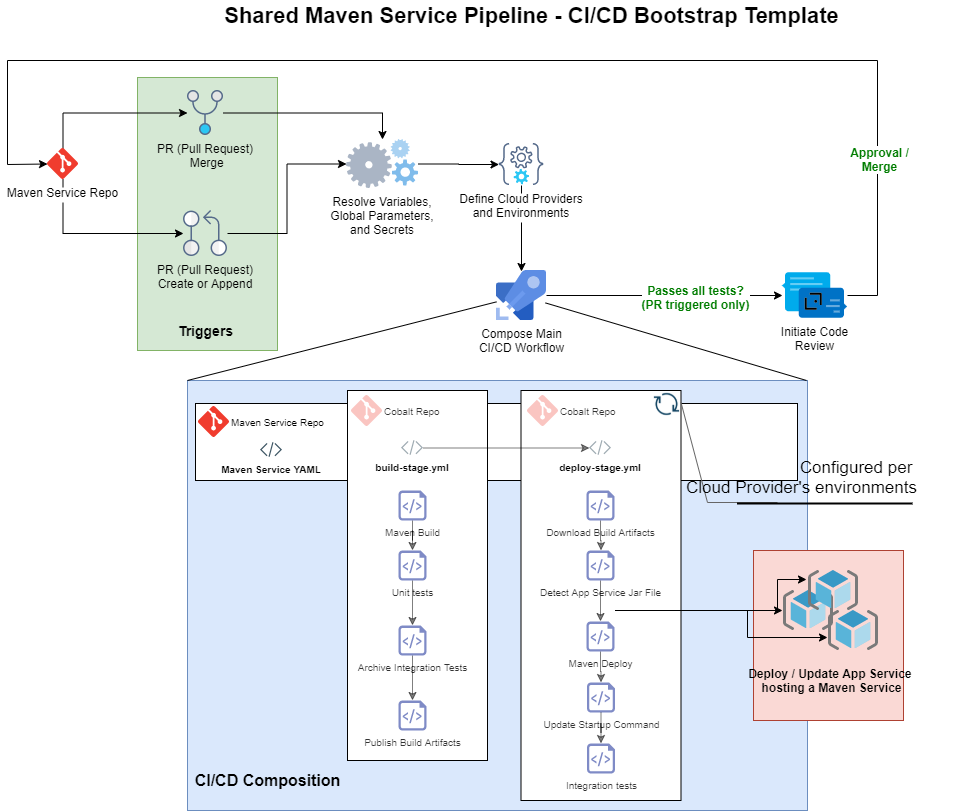
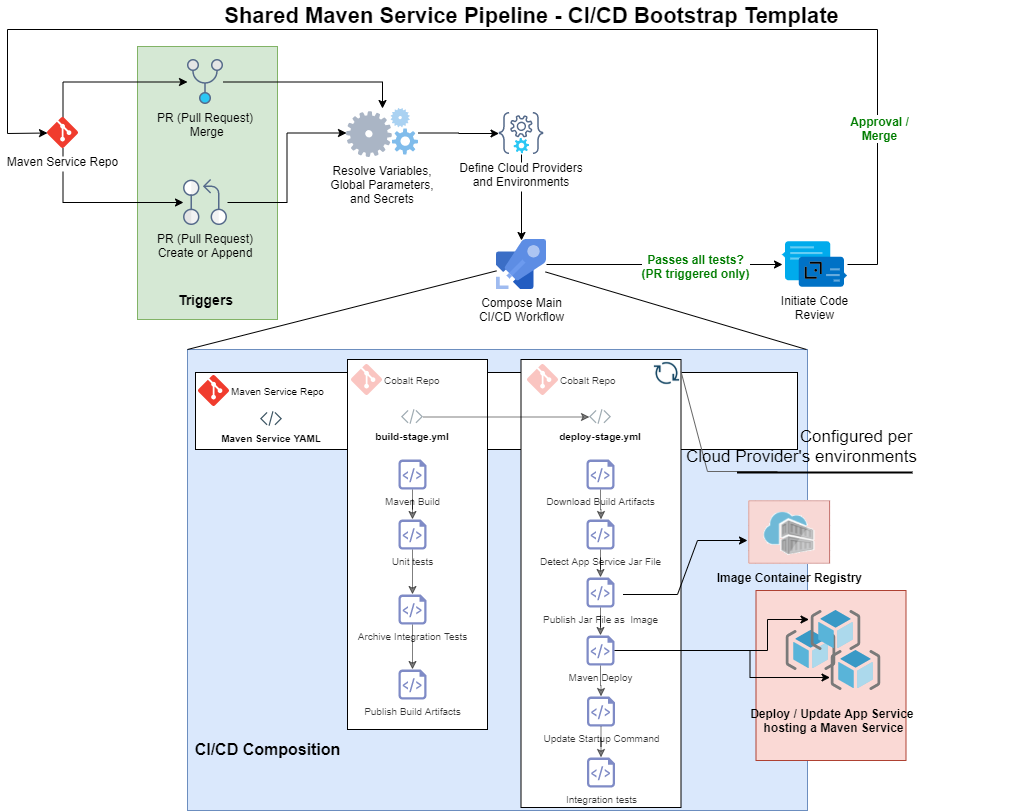
update readme w/ image upload language

Changed region(s): [[0.0, 0.0, 0.9647, 1.0], [0.8402, 0.1233, 0.9336, 0.2158], [0.8402, 0.0617, 0.8714, 0.0925]]

diff --git a/devops/providers/azure-devops/templates/app_service_maven/examples/service_usage.md b/devops/providers/azure-devops/templates/app_service_maven/examples/service_usage.md
@@ -55,7 +55,7 @@ Services will typically leverage the following common templates to configure the
 
   **Required Configurations**
 
-  - `repositories` keyword mapping: This is the syntax needed to reference an external repository. The Cobalt Infrastructure Template being referenced will live in another code repository.
+  - `repositories` keyword mapping: This is the syntax needed to reference an external repository. The **Shared Maven Service Pipeline** templates live in the infrastructure repository and not in the service repository with the **Maven Service**.
   - `template` attribute keyword: This is the syntax needed to use another `yaml` file as a template. The `yaml` files being referenced must be either the full path to the build stage `yaml` file or the deploy stages `yaml` file.
   - `copyFileContents` or `copyFileContentsToFlatten` parameter: Either or both of these parameters must be satisifed with the paths that point to the files you want packaged up and passed as build artifacts.
 
@@ -63,7 +63,7 @@ Services will typically leverage the following common templates to configure the
 
   - Parameter which defines the `providers`. This controls which cloud provider the application will be deployed to. In this example, we use Azure.
   - Stanza which defines the `environments`. This controls which environment the application will be deployed to. It should match the environments configured in the infrastructure pipeline. In the example shown here, the environments deployed will depend on whether or not the build has been triggered from the `master` branch. This enables PR builds to deploy only to `devint`.
-  - Stanza which defines  the `serviceBase`: This controls the name of the **Maven Service** being deployed. It should be unique for each Maven Service being deployed. In this example, we use `JavaHelloWorld` as a generic service application name.
+  - Stanza which defines  the `serviceBase`: This controls the name of the Maven Service being deployed. It should be unique for each Maven Service being deployed. In this example, we use `JavaHelloWorld` as a generic service application name.
 
   **Optional Parameters**
 

diff --git a/devops/providers/azure-devops/templates/app_service_maven/README.md b/devops/providers/azure-devops/templates/app_service_maven/README.md
@@ -39,6 +39,7 @@ In order to further simplify **CI/CD** configurations for a **Maven Service**, c
         | Cloud Based Deployments | `deploy-stage.yml` | This file enables the deploy steps to run per cloud provider. Our implementation is Azure bound. |
         | Environment Based Deployments  | `deploy-stage.yml` | This file enables the deploy steps to run per a cloud provider's configured list of environments. |
         | Detect App Service Jar File | `app-service-detect-jar.yml` | Scans the incoming artifact drop folder for the jar file. |
+        | Publish Jar File Image | `app-service-acr-publish.yml` | Uploads jar file to image container registry. |
         | [Maven Deploy](https://docs.microsoft.com/en-us/azure/devops/pipelines/tasks/build/maven?view=azure-devops) | `app-service-deployment-steps.yml` | Deploy application using maven tasks. |
         | App Service CL Update | `app-service-update-commandline.yml` | Updates the App Service startup command with information about the newly deployed JAR file. |
         | Integration Tests | `app-service-deployment-steps.yml` | Automatically detects and runs integration tests using maven tasks. |
